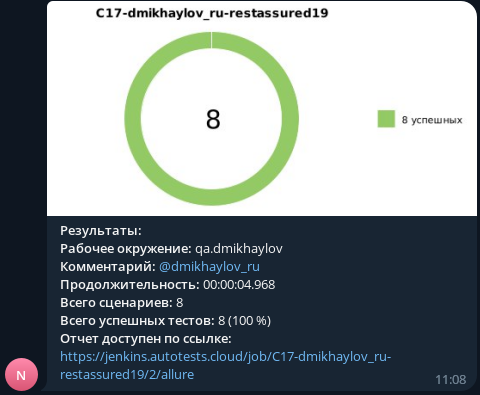
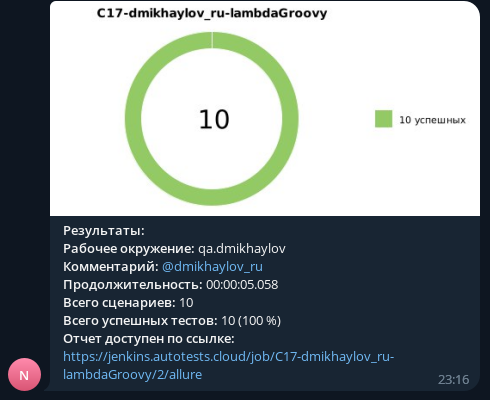
changed readme

diff --git a/README.md b/README.md
@@ -41,7 +41,7 @@
 - <code>ENV</code> окружение, в котором запускаютя тесты, по умолчанию remote
 
 ## :pushpin: Задача в Jenkins
-<a href="https://jenkins.autotests.cloud/job/C17-dmikhaylov_ru-restassured19/"><img src="readme/screenshots/jenkins.png" alt="Задача в jenkins"></a>
+<a href="https://jenkins.autotests.cloud/job/C17-dmikhaylov_ru-lambdaGroovy/"><img src="readme/screenshots/jenkins.png" alt="Задача в jenkins"></a>
 
 ## :pushpin: Отчёт Allure
 <img src="readme/screenshots/allure_overview.png" alt="Allure_overview"/>
